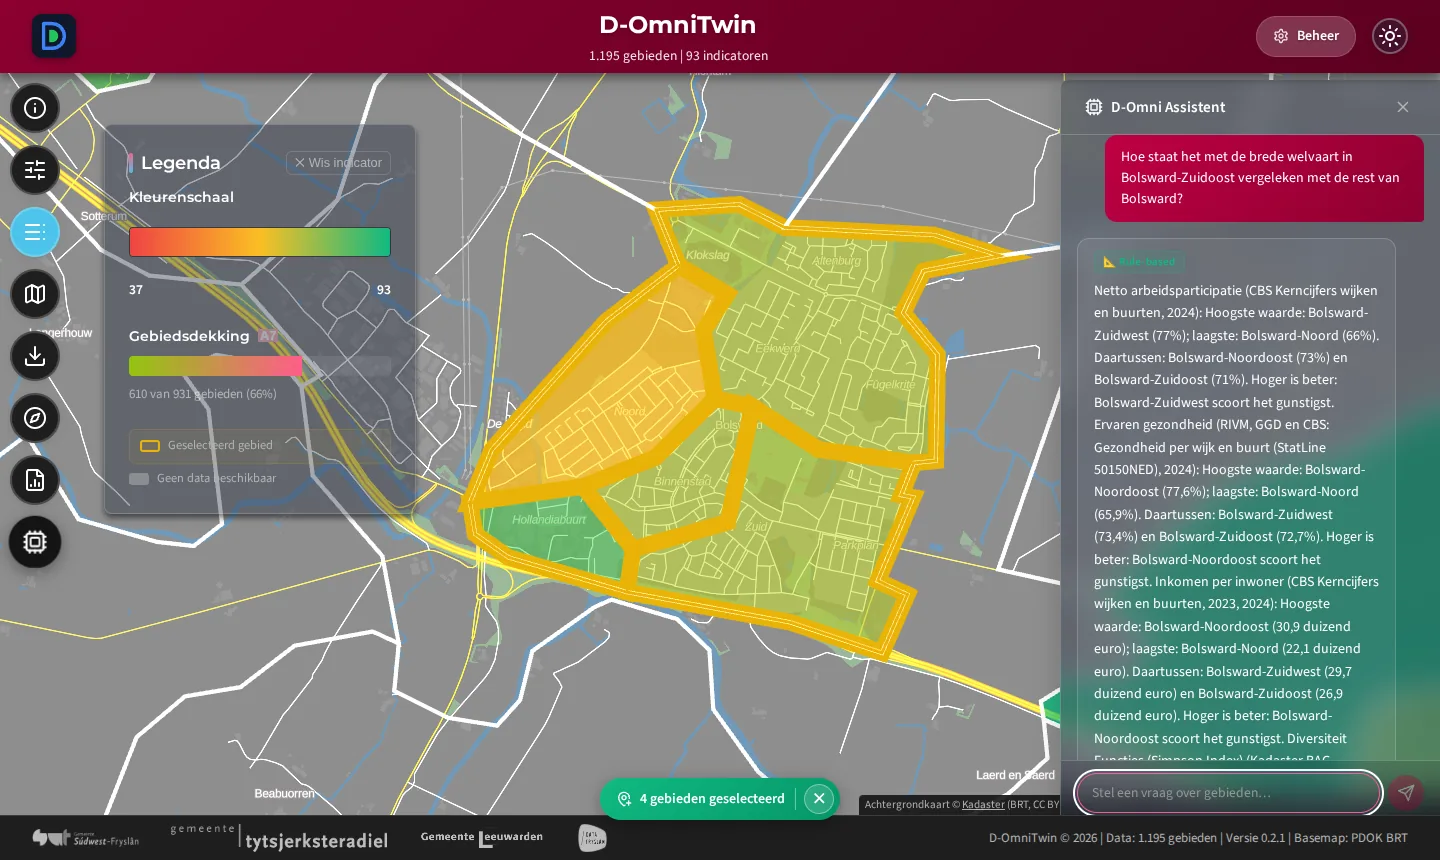
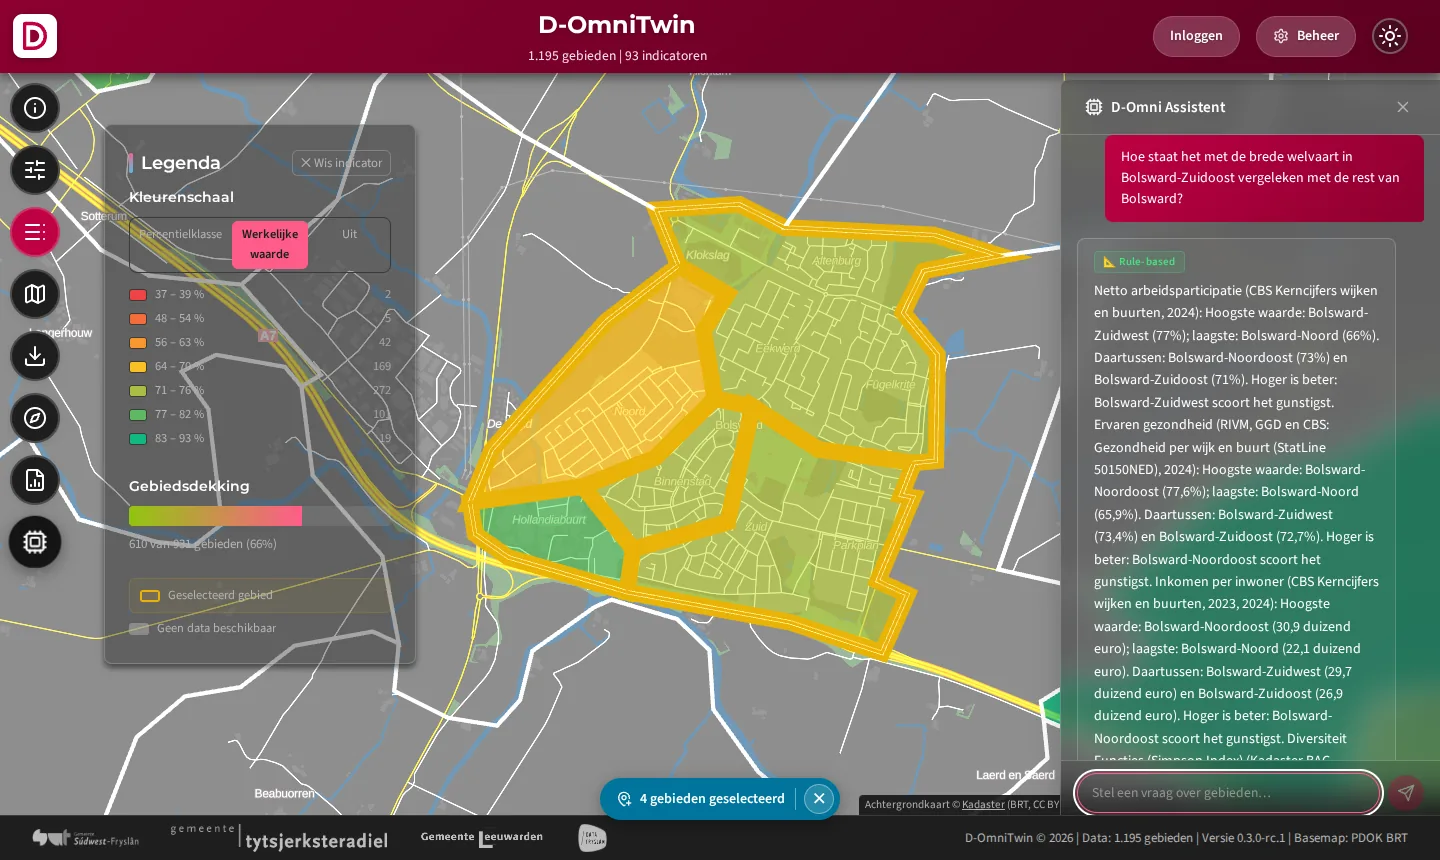
release: 0.3.0-rc.1
Pre-release van 0.3.0 met aannames uit #222. Versie in VERSION, publiccode.yml en het
beheerscherm; CHANGELOG-sectie 0.3.0-rc.1; bewijs per use case opnieuw gemaakt op een verse
installatie van deze versie (open data, Keycloak); README-status en use case-tekst bijgewerkt.

diff --git a/CHANGELOG.md b/CHANGELOG.md
@@ -8,10 +8,14 @@ Eerdere wijzigingen, van vóór dit bestand, zijn terug te vinden in de git-hist
 
 ## [Unreleased]
 
+## [0.3.0-rc.1] - 2026-10-03
+
+**Pre-release.** De eerste versie die de huidige SWF-gebiedsmonitor kan opvolgen en aan andere partijen kan worden aangeboden: inloggen via Keycloak (beheer, en optioneel de viewer), een laad-API voor leveringen, use cases als apps met bewijs, open data in plaats van demodata, percentielklassen en kaartmodi, een thema per organisatie en de basis voor productie (back-up en herstel, beheerhandleiding, privacy). Een aantal punten gaat uit van **aannames** tot [#222](https://github.com/TLaan/D-OmniTwin/issues/222) beantwoord is: vulling met de export van februari 2026, de percentielmethodiek, nog geen klimaatlabels A–E en nog geen rechten per laag. Vergelijking met de huidige monitor: [#259](https://github.com/TLaan/D-OmniTwin/issues/259). Lees bij een upgrade de paragraaf **Migreren**.
+
 ### Toegevoegd
 
 - Percentielklasse (8 × 12,5%) naast de Z-score, instelbaar per kompasprofiel als data: `kompas_configuraties.classificatie` = `zscore` (standaard, huidige weergave) of `percentiel_8` (migratie `V031__kompas_classificatie.sql`). Bij `percentiel_8` krijgen indicator, onderdeel, thema en kwadrant een klasse 1–8 (8 = gunstigst) met een kleurenblindvriendelijk palet uit `color_schemas`; aggregatie = gewogen gemiddelde van de indicatorklassen (gewicht: aantal gebieden met data in de referentiegroep), afgerond; een multi-selectie volgt dezelfde regel (`GET /api/kompas/{config_id}/selectie`). Kaart: modus *Percentielklasse*, *Werkelijke waarde* (met klassen en bereik in de legenda) of *Uit* (`kaart_data?modus=percentiel|waarde`). **Aanname** tot [#222](https://github.com/TLaan/D-OmniTwin/issues/222) antwoord geeft: percentiel (middenrang) binnen de referentiegroep van de Z-score (gemeente, gebiedstype, zelfde jaar, zonder waterbuurten), polariteit toegepast, waarden met n < 10 tellen niet mee. Methodiek: `docs/3-data-engineering/percentielklasse_methodiek.md` ([#255](https://github.com/TLaan/D-OmniTwin/issues/255)).
-- Governance volgens het OpenWebconcept: `GOVERNANCE.md` (eigenaar en beheerder Súdwest-Fryslân, rollen, review bij voorkeur door een andere partij, besluitvorming), `SUPPORT.md` (onderhoud ten minste tot en met 31 augustus 2027, einde een jaar vooraf aangekondigd, kanalen) en `PARTICIPANTS.md` (deelnemende organisaties, zonder persoonsnamen); `publiccode.yml` noemt beheerder en termijn ([#183](https://github.com/TLaan/D-OmniTwin/issues/183)).
+- Governance volgens het OpenWebconcept: `GOVERNANCE.md` (eigenaar en beheerder Súdwest-Fryslân, rollen, review bij voorkeur door een andere partij, besluitvorming), `SUPPORT.md` (onderhoudsgarantie één jaar na elke release, einde een jaar vooraf aangekondigd, kanalen) en `PARTICIPANTS.md` (deelnemende organisaties, zonder persoonsnamen); `publiccode.yml` noemt beheerder en termijn ([#183](https://github.com/TLaan/D-OmniTwin/issues/183)).
 - Productieklaar bij een gemeente ([#257](https://github.com/TLaan/D-OmniTwin/issues/257)): `scripts/beheer/backup.sh` en `restore.sh` (database, Keycloak-database, rollen en de volumes `leveringen` en `uploads`, met datum, controlesommen en bewaartermijn `BACKUP_BEWAAR_DAGEN`; herstel naar een lege installatie) en `hersteltest.sh` (back-up, `down -v`, herstel, vergelijken; getest met sample-data en Keycloak). Nieuw: [beheerhandleiding](docs/9-beheer/beheerhandleiding.md) (bijwerken en terugrollen, Keycloak-beheer, leveringen, logs en health, certificaten, incidenten, acceptatie naast productie), [privacy-quickscan](docs/5-secops/privacy-quickscan.md) en [toegankelijkheidsstatus](docs/4-ux-design/toegankelijkheid.md). `docs/4-ux-design/thema-s.md` staat nu ook echt in git (stond in `.gitignore`).
 - Inloggen in de beheeromgeving via Keycloak (ADR 0008): met `OIDC_ISSUER` gezet toont de inlogpagina **Inloggen met Keycloak** (authorization code + PKCE via `omnitwin-web`; de backend doet de flow en zet het HttpOnly-sessiecookie, ververst het token en logt bij uitloggen ook bij Keycloak uit). Realm-rol `beheerder` geeft beheerrechten, `lezer` niet. Beheer-endpoints accepteren ook een bearer-token van Keycloak met de rol `beheerder`. Gebruikers en rollen beheer je in Keycloak (link in het menu). Lokale accounts werken met Keycloak alleen als noodtoegang (`LOKAAL_INLOGGEN=true`, met waarschuwing); zonder Keycloak blijft het lokale inloggen zoals het was. In de log alleen `sub` en gebruikersnaam. Migratie `V029__oidc_sessies.sql`; nieuwe, optionele variabelen `LOKAAL_INLOGGEN` en `OIDC_CLIENT_ID`; de realmexport neemt `OMNITWIN_BASE_URL/*` op als redirect-URI (bestaande realm: zelf toevoegen in de admin-console) ([#251](https://github.com/TLaan/D-OmniTwin/issues/251)).
 - Viewer optioneel achter Keycloak-login (ADR 0009): met `VIEWER_TOEGANG=inloggen` stuurt `/` zonder sessie door naar Keycloak en terug naar de kaart, en zijn ook alle data-API's dicht (API's van de backend via een middleware, `/api/data` en `/api/geo` via Traefik forwardAuth naar `GET /api/viewer/toegang`): zonder sessie `401`, zonder rol `lezer` of `beheerder` `403` (pagina *Geen toegang*). Standaard `open`, zoals het was. In de kop van de viewer *Inloggen* of de gebruikersnaam met *Uitloggen* zodra Keycloak aan staat. Nieuwe, optionele variabele `VIEWER_TOEGANG` ([#266](https://github.com/TLaan/D-OmniTwin/issues/266)).
@@ -211,7 +215,8 @@ Eerste release; deze sectie vat de ontwikkeling sinds het begin samen, details s
 - De backend-container draait als niet-root gebruiker ([#78](https://github.com/TLaan/D-OmniTwin/pull/78)).
 - Beheeromgeving gebouwd zonder sourcemaps ([#81](https://github.com/TLaan/D-OmniTwin/pull/81)).
 
-[Unreleased]: https://github.com/TLaan/D-OmniTwin/compare/v0.2.1...HEAD
+[Unreleased]: https://github.com/TLaan/D-OmniTwin/compare/v0.3.0-rc.1...HEAD
+[0.3.0-rc.1]: https://github.com/TLaan/D-OmniTwin/compare/v0.2.1...v0.3.0-rc.1
 [0.2.1]: https://github.com/TLaan/D-OmniTwin/compare/v0.2.0...v0.2.1
 [0.2.0]: https://github.com/TLaan/D-OmniTwin/compare/v0.1.0...v0.2.0
 [0.1.0]: https://github.com/TLaan/D-OmniTwin/releases/tag/v0.1.0

diff --git a/README.md b/README.md
@@ -2,7 +2,7 @@
 
 > Digitale spiegel van de fysieke leefomgeving: indicatoren op buurtniveau op een kaart, in een Kompas en in rapporten. Open source (EUPL 1.2).
 
-**Status:** pre-release, versie 0.2 (het actuele nummer staat in [`VERSION`](./VERSION), de wijzigingen in de [CHANGELOG](./CHANGELOG.md)). Lees vóór gebruik buiten je eigen netwerk de paragraaf [Beveiliging](./docs/9-beheer/installatie.md#beveiliging) van de installatiegids.
+**Status:** pre-release, versie 0.3.0-rc.1 (het actuele nummer staat in [`VERSION`](./VERSION), de wijzigingen in de [CHANGELOG](./CHANGELOG.md)). Lees vóór gebruik buiten je eigen netwerk de paragraaf [Beveiliging](./docs/9-beheer/installatie.md#beveiliging) van de installatiegids.
 
 [![Licentie: EUPL 1.2](https://img.shields.io/badge/Licentie-EUPL_1.2-blue)](./LICENSE) [![Docs: CC BY 4.0](https://img.shields.io/badge/Docs-CC_BY_4.0-green)](./LICENSE-DOCS)
 
@@ -20,7 +20,7 @@ Gemeenten en provincies werken aan opgaven als energietransitie, klimaatadaptati
 
 D-OmniTwin is bedoeld als **open methodiek met referentie-implementatie**, niet als product of SaaS-dienst. De architectuur is voorbereid op dataspaces (data blijft bij de bron), zoals de Fryslân Data Space (FRLDS).
 
-De repository bevat vijf **use cases** (energiearmoede, hittestress, brede welvaart, sociale cohesie, beleidsadviseur) met data voor 13 buurten in Súdwest-Fryslân, en de CBS-buurten en RIVM-indicatoren voor heel Fryslân. Testbuurt is Bolsward-Zuidoost (BU19000002); een deel van de waarden is demodata.
+De repository bevat **use cases** als installeerbare pakketten: vijf vragen van gebruikers (energiearmoede, hittestress, brede welvaart, sociale cohesie, beleidsadviseur) en de bronnen eronder. Bij de eerste start laden ze **open data** voor heel Fryslân: CBS-kerncijfers 2019–2026 en gebiedsindelingen, de RIVM-gezondheidsmonitor, RIVM-hitte en -boomkroon en politiecijfers. Wat (nog) niet open is, staat als gemarkeerde demodata in de bron. Testbuurt is Bolsward-Zuidoost (BU19000002). Zie de galerij [Use cases in beeld](#use-cases-in-beeld) en [`usecases/`](./usecases/README.md).
 
 ---
 

diff --git a/usecases/rivm-gezondheidsmonitor/README.md b/usecases/rivm-gezondheidsmonitor/README.md
@@ -58,7 +58,7 @@ Bron → levering op 02-10-2026: 37.056 regels, niets afgewezen. Bolsward-Zuidoo
 ## Bewijs
 
 <!-- bewijs:start -->
-*Gemaakt op 03-10-2026 met D-OmniTwin 0.2.1 (use case 0.1.0); geslaagd. Verslag: [`bewijs/bewijs.json`](bewijs/bewijs.json). Opnieuw maken (bij een release): `python -m omnitwin.usecases bewijs rivm-gezondheidsmonitor`.*
+*Gemaakt op 03-10-2026 met D-OmniTwin 0.3.0-rc.1 (use case 0.2.0); geslaagd. Verslag: [`bewijs/bewijs.json`](bewijs/bewijs.json). Opnieuw maken (bij een release): `python -m omnitwin.usecases bewijs rivm-gezondheidsmonitor`.*
 
 ![Ervaren gezondheid per buurt in Súdwest-Fryslân (RIVM Gezondheidsmonitor)](bewijs/kaart.webp)
 *Ervaren gezondheid per buurt in Súdwest-Fryslân (RIVM Gezondheidsmonitor)*

diff --git a/usecases/sample-bronbibliotheek/README.md b/usecases/sample-bronbibliotheek/README.md
@@ -45,7 +45,7 @@ Verwacht: `sample-open-zonder-adapter` 416 regels (32 x 13 buurten), `sample-int
 ## Bewijs
 
 <!-- bewijs:start -->
-*Gemaakt op 03-10-2026 met D-OmniTwin 0.2.1 (use case 0.1.0); geslaagd. Verslag: [`bewijs/bewijs.json`](bewijs/bewijs.json). Opnieuw maken (bij een release): `python -m omnitwin.usecases bewijs sample-bronbibliotheek`.*
+*Gemaakt op 03-10-2026 met D-OmniTwin 0.3.0-rc.1 (use case 0.2.0); geslaagd. Verslag: [`bewijs/bewijs.json`](bewijs/bewijs.json). Opnieuw maken (bij een release): `python -m omnitwin.usecases bewijs sample-bronbibliotheek`.*
 
 ![Afstand tot koele plek (DEMODATA, plaatsvervanger voor de interne bron)](bewijs/kaart.webp)
 *Afstand tot koele plek (DEMODATA, plaatsvervanger voor de interne bron)*

diff --git a/usecases/beleidsadviseur-swf/README.md b/usecases/beleidsadviseur-swf/README.md
@@ -34,7 +34,7 @@ Zie [TC-06-001](../../docs/testcases/06-integratie-e2e/TC-06-001_beleidsadviseur
 ## Bewijs
 
 <!-- bewijs:start -->
-*Gemaakt op 03-10-2026 met D-OmniTwin 0.2.1 (use case 0.2.0); geslaagd. Verslag: [`bewijs/bewijs.json`](bewijs/bewijs.json). Opnieuw maken (bij een release): `python -m omnitwin.usecases bewijs beleidsadviseur-swf`.*
+*Gemaakt op 03-10-2026 met D-OmniTwin 0.3.0-rc.1 (use case 0.2.0); geslaagd. Verslag: [`bewijs/bewijs.json`](bewijs/bewijs.json). Opnieuw maken (bij een release): `python -m omnitwin.usecases bewijs beleidsadviseur-swf`.*
 
 ![Scenario Beleidsadviseur: de D-Omni Assistent zet kaart en Kompas klaar](bewijs/chat.webp)
 *Scenario Beleidsadviseur: de D-Omni Assistent zet kaart en Kompas klaar*

diff --git a/usecases/brede-welvaart/README.md b/usecases/brede-welvaart/README.md
@@ -57,7 +57,7 @@ Een use case is een **bundel**: data + inrichting + stappen. Alle drie staan hie
 ## Bewijs
 
 <!-- bewijs:start -->
-*Gemaakt op 03-10-2026 met D-OmniTwin 0.2.1 (use case 0.2.0); geslaagd. Verslag: [`bewijs/bewijs.json`](bewijs/bewijs.json). Opnieuw maken (bij een release): `python -m omnitwin.usecases bewijs brede-welvaart`.*
+*Gemaakt op 03-10-2026 met D-OmniTwin 0.3.0-rc.1 (use case 0.2.0); geslaagd. Verslag: [`bewijs/bewijs.json`](bewijs/bewijs.json). Opnieuw maken (bij een release): `python -m omnitwin.usecases bewijs brede-welvaart`.*
 
 ![Inkomen per inwoner in Bolsward (CBS), Bolsward-Zuidoost geselecteerd](bewijs/kaart.webp)
 *Inkomen per inwoner in Bolsward (CBS), Bolsward-Zuidoost geselecteerd*

diff --git a/usecases/sociale-cohesie/README.md b/usecases/sociale-cohesie/README.md
@@ -58,7 +58,7 @@ Een use case is een **bundel**: data + inrichting + stappen. Alle drie staan hie
 ## Bewijs
 
 <!-- bewijs:start -->
-*Gemaakt op 03-10-2026 met D-OmniTwin 0.2.1 (use case 0.2.0); geslaagd. Verslag: [`bewijs/bewijs.json`](bewijs/bewijs.json). Opnieuw maken (bij een release): `python -m omnitwin.usecases bewijs sociale-cohesie`.*
+*Gemaakt op 03-10-2026 met D-OmniTwin 0.3.0-rc.1 (use case 0.2.0); geslaagd. Verslag: [`bewijs/bewijs.json`](bewijs/bewijs.json). Opnieuw maken (bij een release): `python -m omnitwin.usecases bewijs sociale-cohesie`.*
 
 ![Eenzaamheid per buurt in Bolsward (RIVM Gezondheidsmonitor)](bewijs/kaart.webp)
 *Eenzaamheid per buurt in Bolsward (RIVM Gezondheidsmonitor)*

diff --git a/usecases/politie-misdrijven/README.md b/usecases/politie-misdrijven/README.md
@@ -46,7 +46,7 @@ Verwacht: 26.068 regels (4 soorten, buurten in Fryslân, 2019-2025), 140 afgewez
 ## Bewijs
 
 <!-- bewijs:start -->
-*Gemaakt op 03-10-2026 met D-OmniTwin 0.2.1 (use case 0.1.0); geslaagd. Verslag: [`bewijs/bewijs.json`](bewijs/bewijs.json). Opnieuw maken (bij een release): `python -m omnitwin.usecases bewijs politie-misdrijven`.*
+*Gemaakt op 03-10-2026 met D-OmniTwin 0.3.0-rc.1 (use case 0.2.0); geslaagd. Verslag: [`bewijs/bewijs.json`](bewijs/bewijs.json). Opnieuw maken (bij een release): `python -m omnitwin.usecases bewijs politie-misdrijven`.*
 
 ![Woninginbraken per buurt in Súdwest-Fryslân (Politie)](bewijs/kaart.webp)
 *Woninginbraken per buurt in Súdwest-Fryslân (Politie)*

diff --git a/usecases/energiearmoede/README.md b/usecases/energiearmoede/README.md
@@ -57,7 +57,7 @@ Een use case is een **bundel**: data + inrichting + stappen. Alle drie staan hie
 ## Bewijs
 
 <!-- bewijs:start -->
-*Gemaakt op 03-10-2026 met D-OmniTwin 0.2.1 (use case 0.2.0); geslaagd. Verslag: [`bewijs/bewijs.json`](bewijs/bewijs.json). Opnieuw maken (bij een release): `python -m omnitwin.usecases bewijs energiearmoede`.*
+*Gemaakt op 03-10-2026 met D-OmniTwin 0.3.0-rc.1 (use case 0.2.0); geslaagd. Verslag: [`bewijs/bewijs.json`](bewijs/bewijs.json). Opnieuw maken (bij een release): `python -m omnitwin.usecases bewijs energiearmoede`.*
 
 ![Huishoudens met een laag inkomen in Bolsward (CBS)](bewijs/kaart.webp)
 *Huishoudens met een laag inkomen in Bolsward (CBS)*

diff --git a/usecases/hittestress/README.md b/usecases/hittestress/README.md
@@ -81,7 +81,7 @@ Gemeten op een verse installatie op 02-10-2026. Boomkroon en hitte-eiland wijken
 ## Bewijs
 
 <!-- bewijs:start -->
-*Gemaakt op 03-10-2026 met D-OmniTwin 0.2.1 (use case 0.2.0); geslaagd. Verslag: [`bewijs/bewijs.json`](bewijs/bewijs.json). Opnieuw maken (bij een release): `python -m omnitwin.usecases bewijs hittestress`.*
+*Gemaakt op 03-10-2026 met D-OmniTwin 0.3.0-rc.1 (use case 0.3.0); geslaagd. Verslag: [`bewijs/bewijs.json`](bewijs/bewijs.json). Opnieuw maken (bij een release): `python -m omnitwin.usecases bewijs hittestress`.*
 
 ![Boomkroonbedekking per buurt in Bolsward (RIVM, 2022)](bewijs/kaart.webp)
 *Boomkroonbedekking per buurt in Bolsward (RIVM, 2022)*

diff --git a/usecases/cbs-gebiedsindelingen/README.md b/usecases/cbs-gebiedsindelingen/README.md
@@ -81,7 +81,7 @@ Verwacht:
 ## Bewijs
 
 <!-- bewijs:start -->
-*Gemaakt op 03-10-2026 met D-OmniTwin 0.2.1 (use case 0.1.0); geslaagd. Verslag: [`bewijs/bewijs.json`](bewijs/bewijs.json). Opnieuw maken (bij een release): `python -m omnitwin.usecases bewijs cbs-gebiedsindelingen`.*
+*Gemaakt op 03-10-2026 met D-OmniTwin 0.3.0-rc.1 (use case 0.2.0); geslaagd. Verslag: [`bewijs/bewijs.json`](bewijs/bewijs.json). Opnieuw maken (bij een release): `python -m omnitwin.usecases bewijs cbs-gebiedsindelingen`.*
 
 ![De CBS-buurten van Súdwest-Fryslân op de kaart (gemeentefilter)](bewijs/kaart.webp)
 *De CBS-buurten van Súdwest-Fryslân op de kaart (gemeentefilter)*

diff --git a/usecases/cbs-kerncijfers/README.md b/usecases/cbs-kerncijfers/README.md
@@ -71,7 +71,7 @@ Verwacht:
 ## Bewijs
 
 <!-- bewijs:start -->
-*Gemaakt op 03-10-2026 met D-OmniTwin 0.2.1 (use case 0.1.0); geslaagd. Verslag: [`bewijs/bewijs.json`](bewijs/bewijs.json). Opnieuw maken (bij een release): `python -m omnitwin.usecases bewijs cbs-kerncijfers`.*
+*Gemaakt op 03-10-2026 met D-OmniTwin 0.3.0-rc.1 (use case 0.2.0); geslaagd. Verslag: [`bewijs/bewijs.json`](bewijs/bewijs.json). Opnieuw maken (bij een release): `python -m omnitwin.usecases bewijs cbs-kerncijfers`.*
 
 ![80 jaar of ouder (%) per buurt in Bolsward (CBS Kerncijfers 2026)](bewijs/kaart.webp)
 *80 jaar of ouder (%) per buurt in Bolsward (CBS Kerncijfers 2026)*
